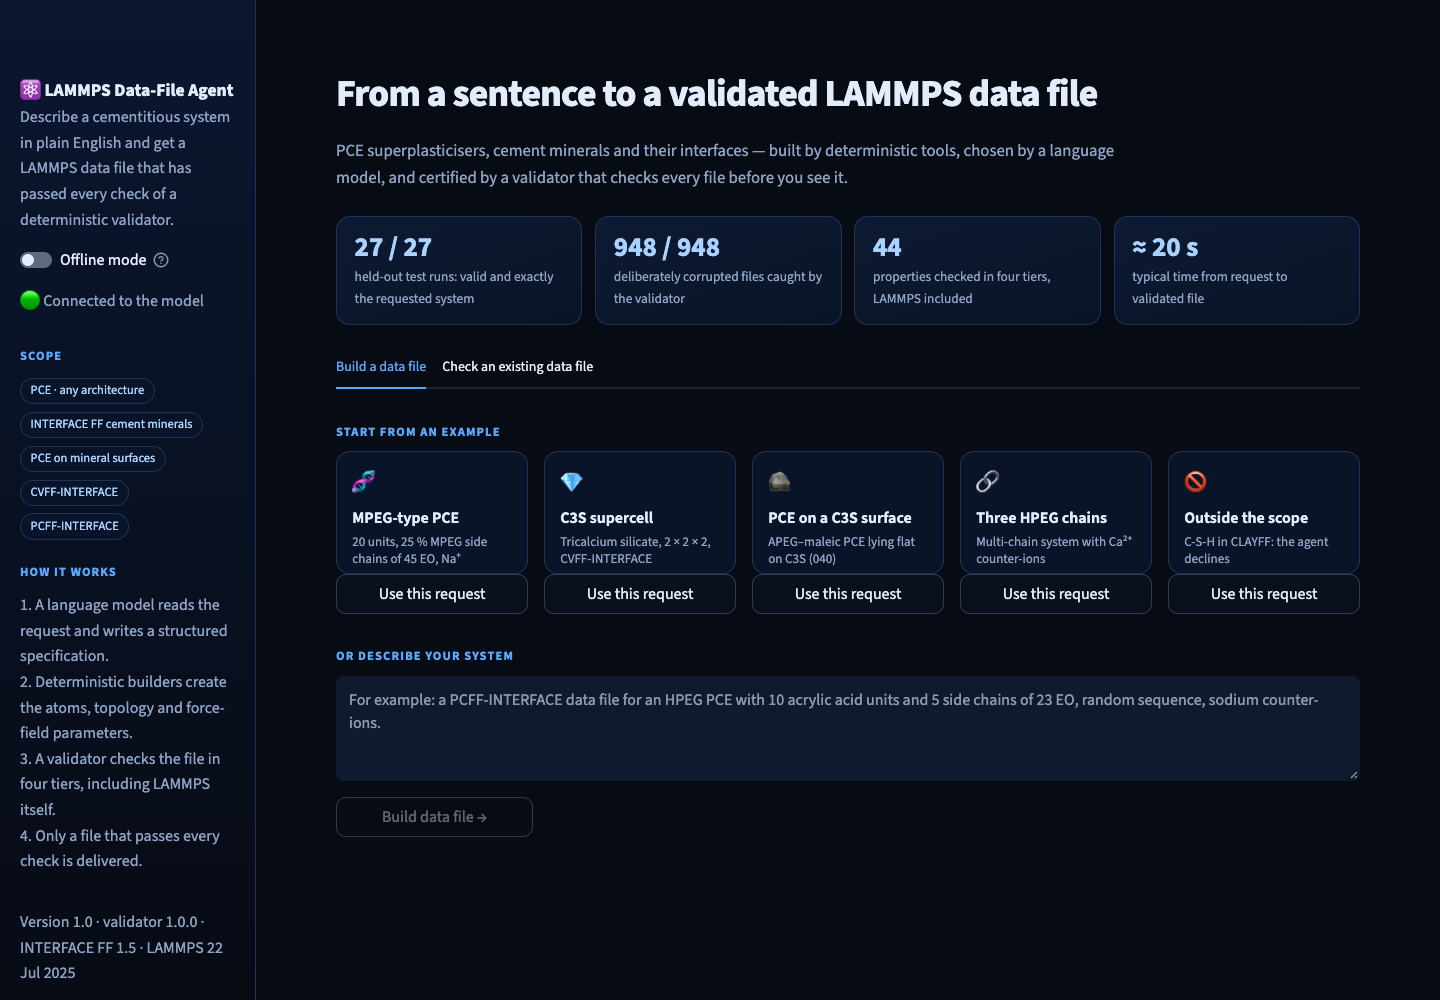
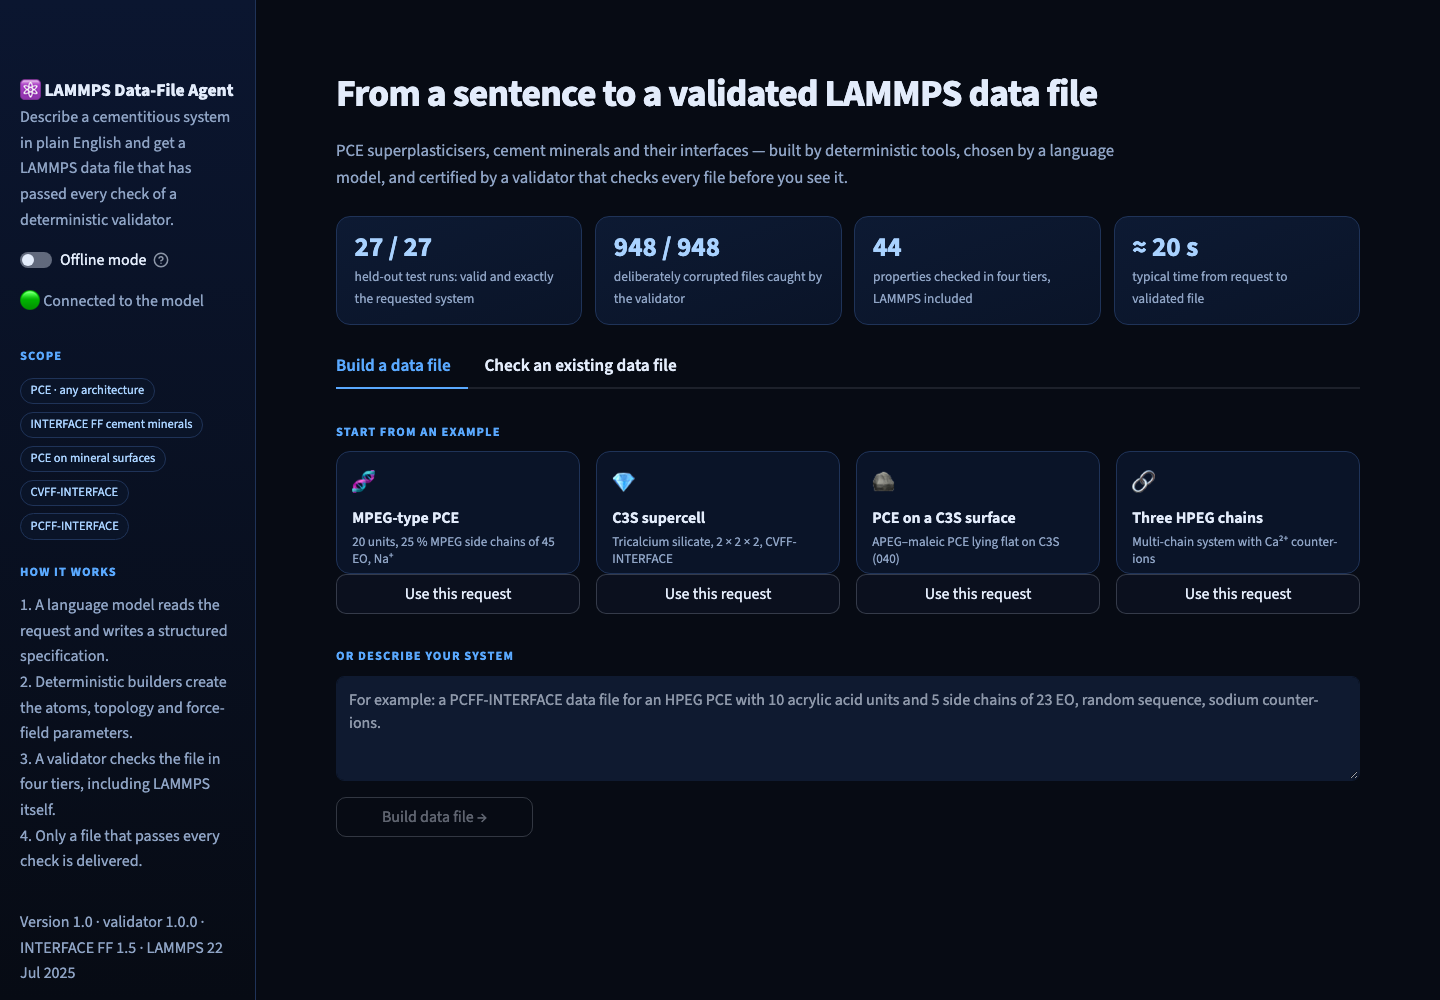
Website: drop the out-of-scope example card (declining still works for any request)

diff --git a/web/app.py b/web/app.py
@@ -49,8 +49,6 @@ EXAMPLES = [
     ("🔗", "Three HPEG chains", "Multi-chain system with Ca²⁺ counter-ions",
      "Three HPEG chains, each with 12 acrylic acid units (all deprotonated) and 6 HPEG side chains of 23 EO units, "
      "random sequence, calcium counter-ions, PCFF-INTERFACE."),
-    ("🚫", "Outside the scope", "C-S-H in CLAYFF: the agent declines",
-     "Build a C-S-H model with Ca/Si ratio 1.7 including interlayer water, in CLAYFF."),
 ]
 CHECK_FILES = [
     ("Two atoms 0.3 Å apart", "c3s_unit_cell_minimized_pcff__FM17__atom_moved_onto_another.data",

diff --git a/web/README.md b/web/README.md
@@ -8,7 +8,7 @@ pip install -r web/requirements.txt     # once (Streamlit)
 ./web/run.sh violet                     # violet theme
 ```
 
-- **Build a data file:** example cards or your own request, a four-stage progress bar, a 3D view, what was built, the validator tiers, a download button, and the agent's notes.
+- **Build a data file:** four example cards or your own request, a four-stage progress bar, a 3D view, what was built, the validator tiers, a download button, and the agent's notes.
   - The agent needs `ANTHROPIC_API_KEY` in the terminal the site is started from.
   - **Offline mode** (sidebar) replays saved results for the example requests from `runs/requests/`, with no internet.
 - **Check an existing data file:** the validator on four corrupted C3S cells that LAMMPS runs without any error or warning, on the correct cell, or on an uploaded file. It shows LAMMPS on its own next to the validator.
